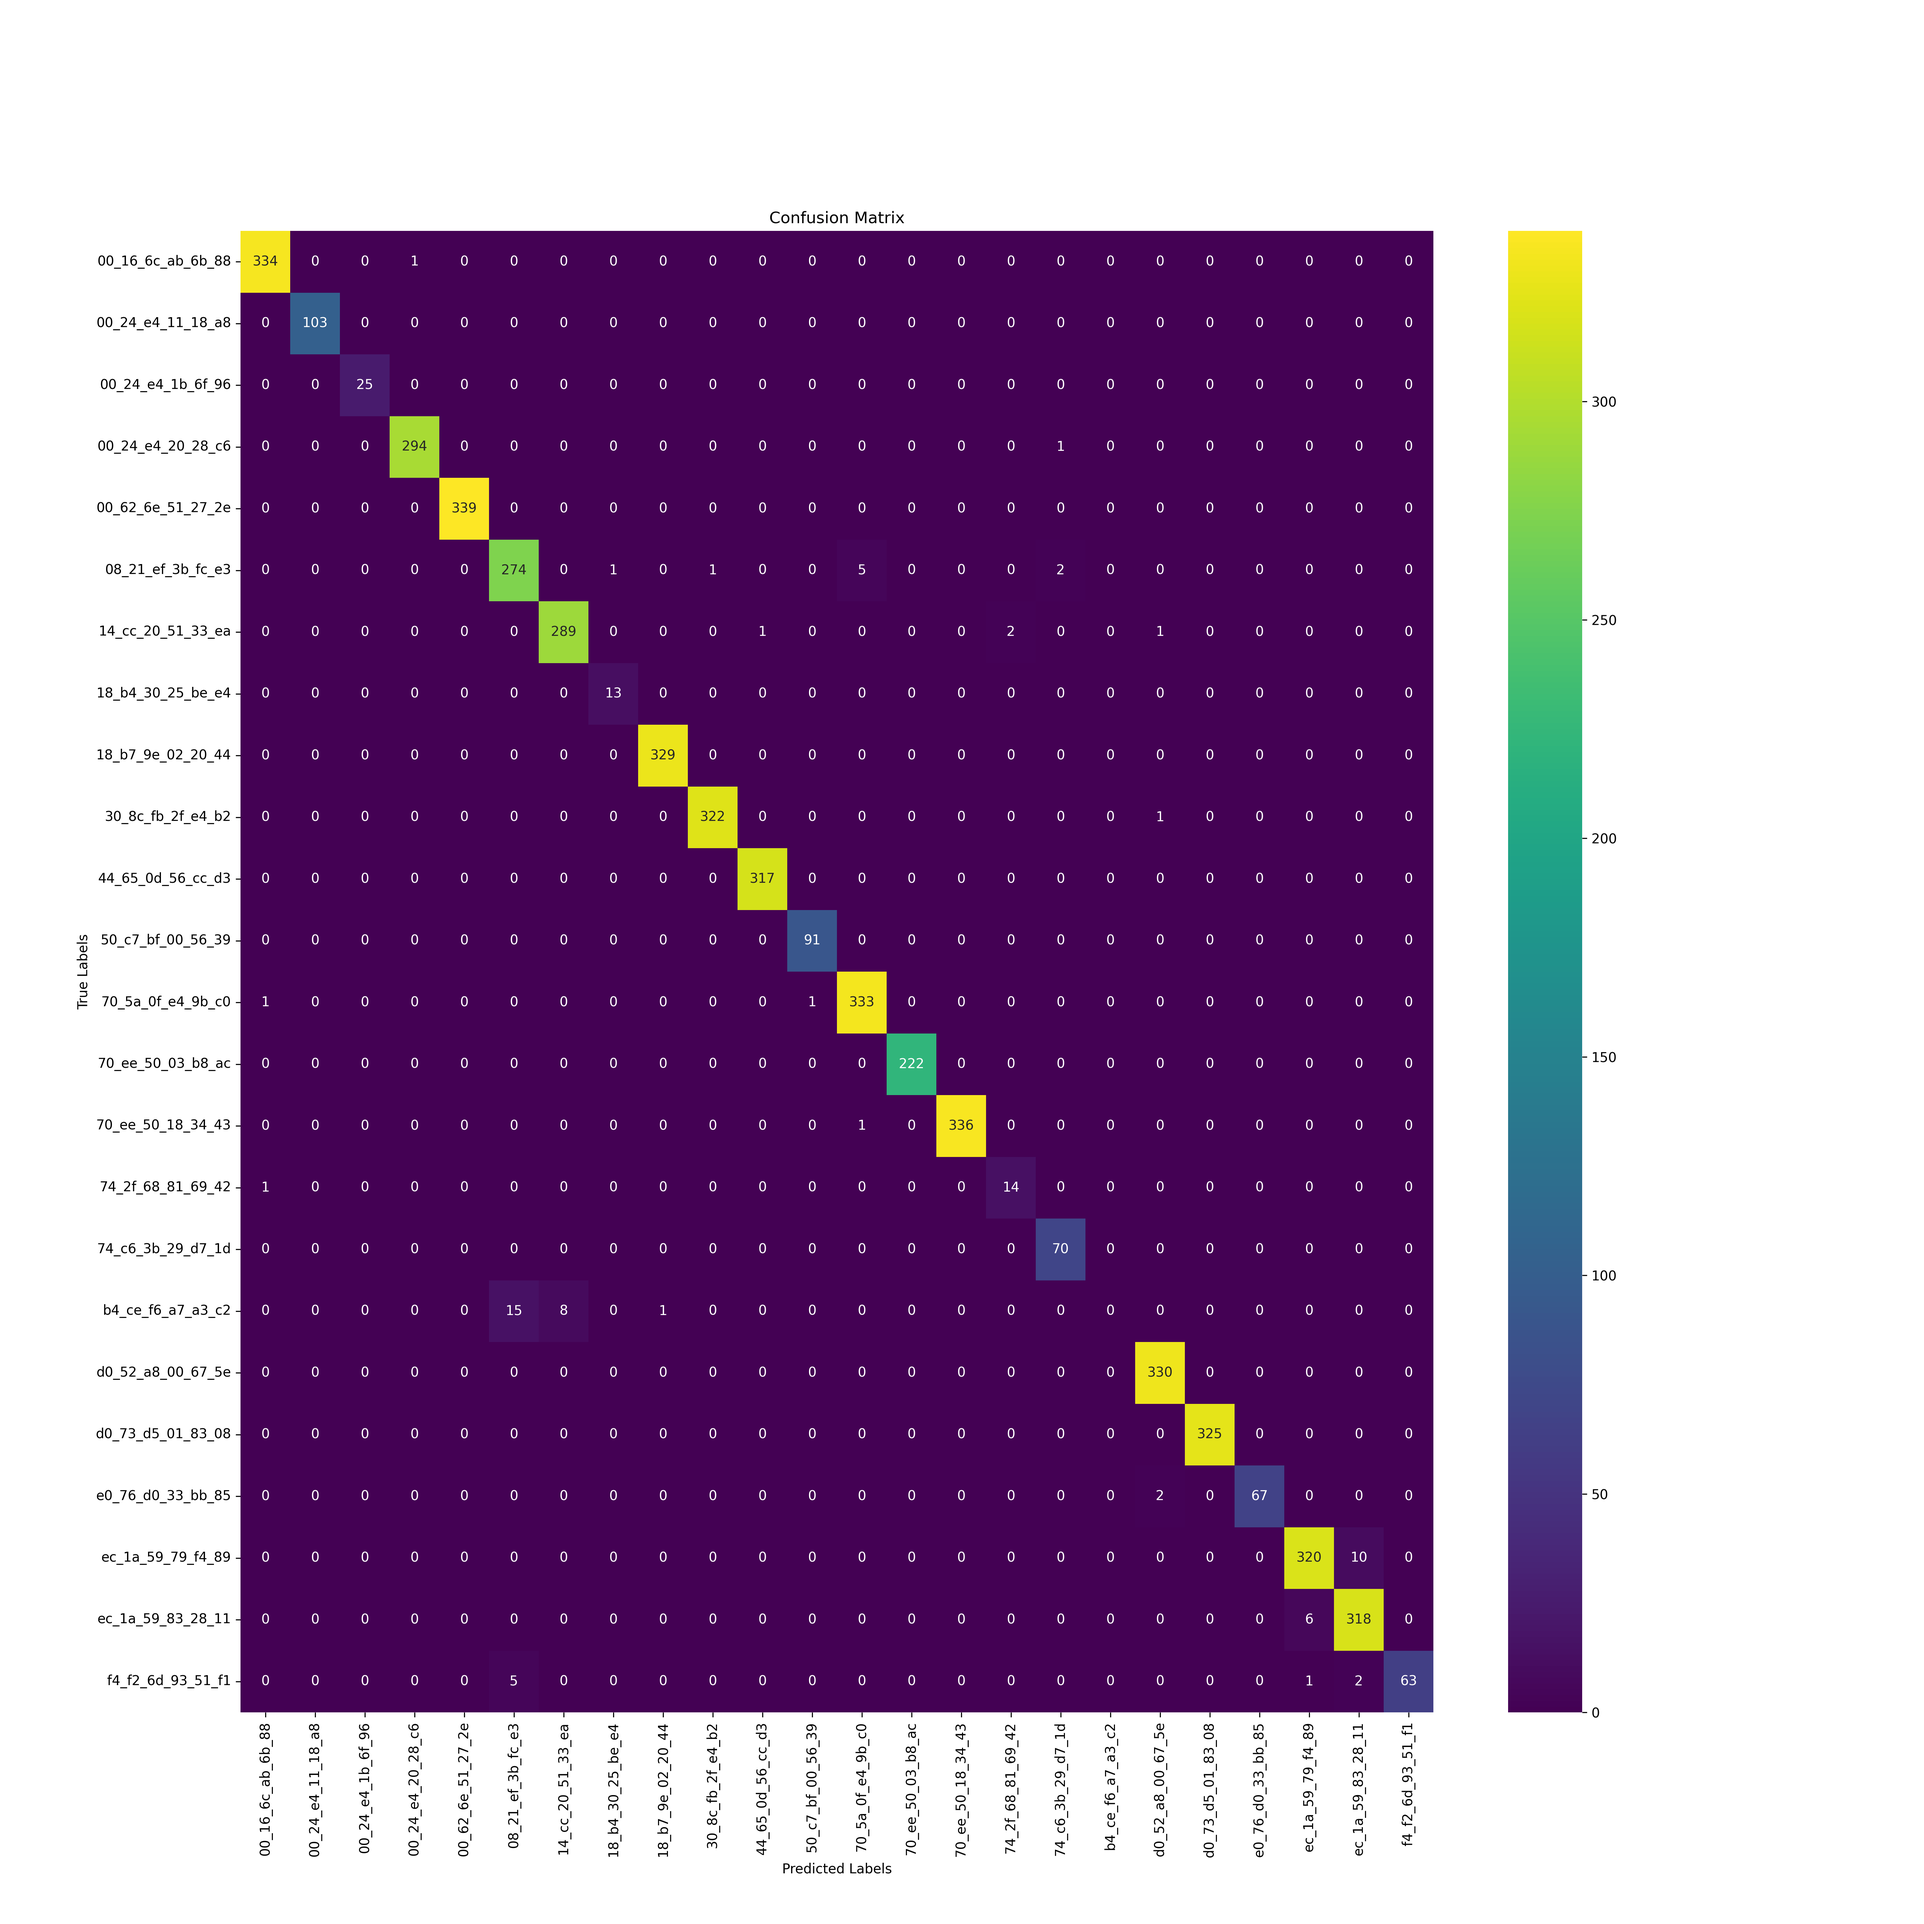
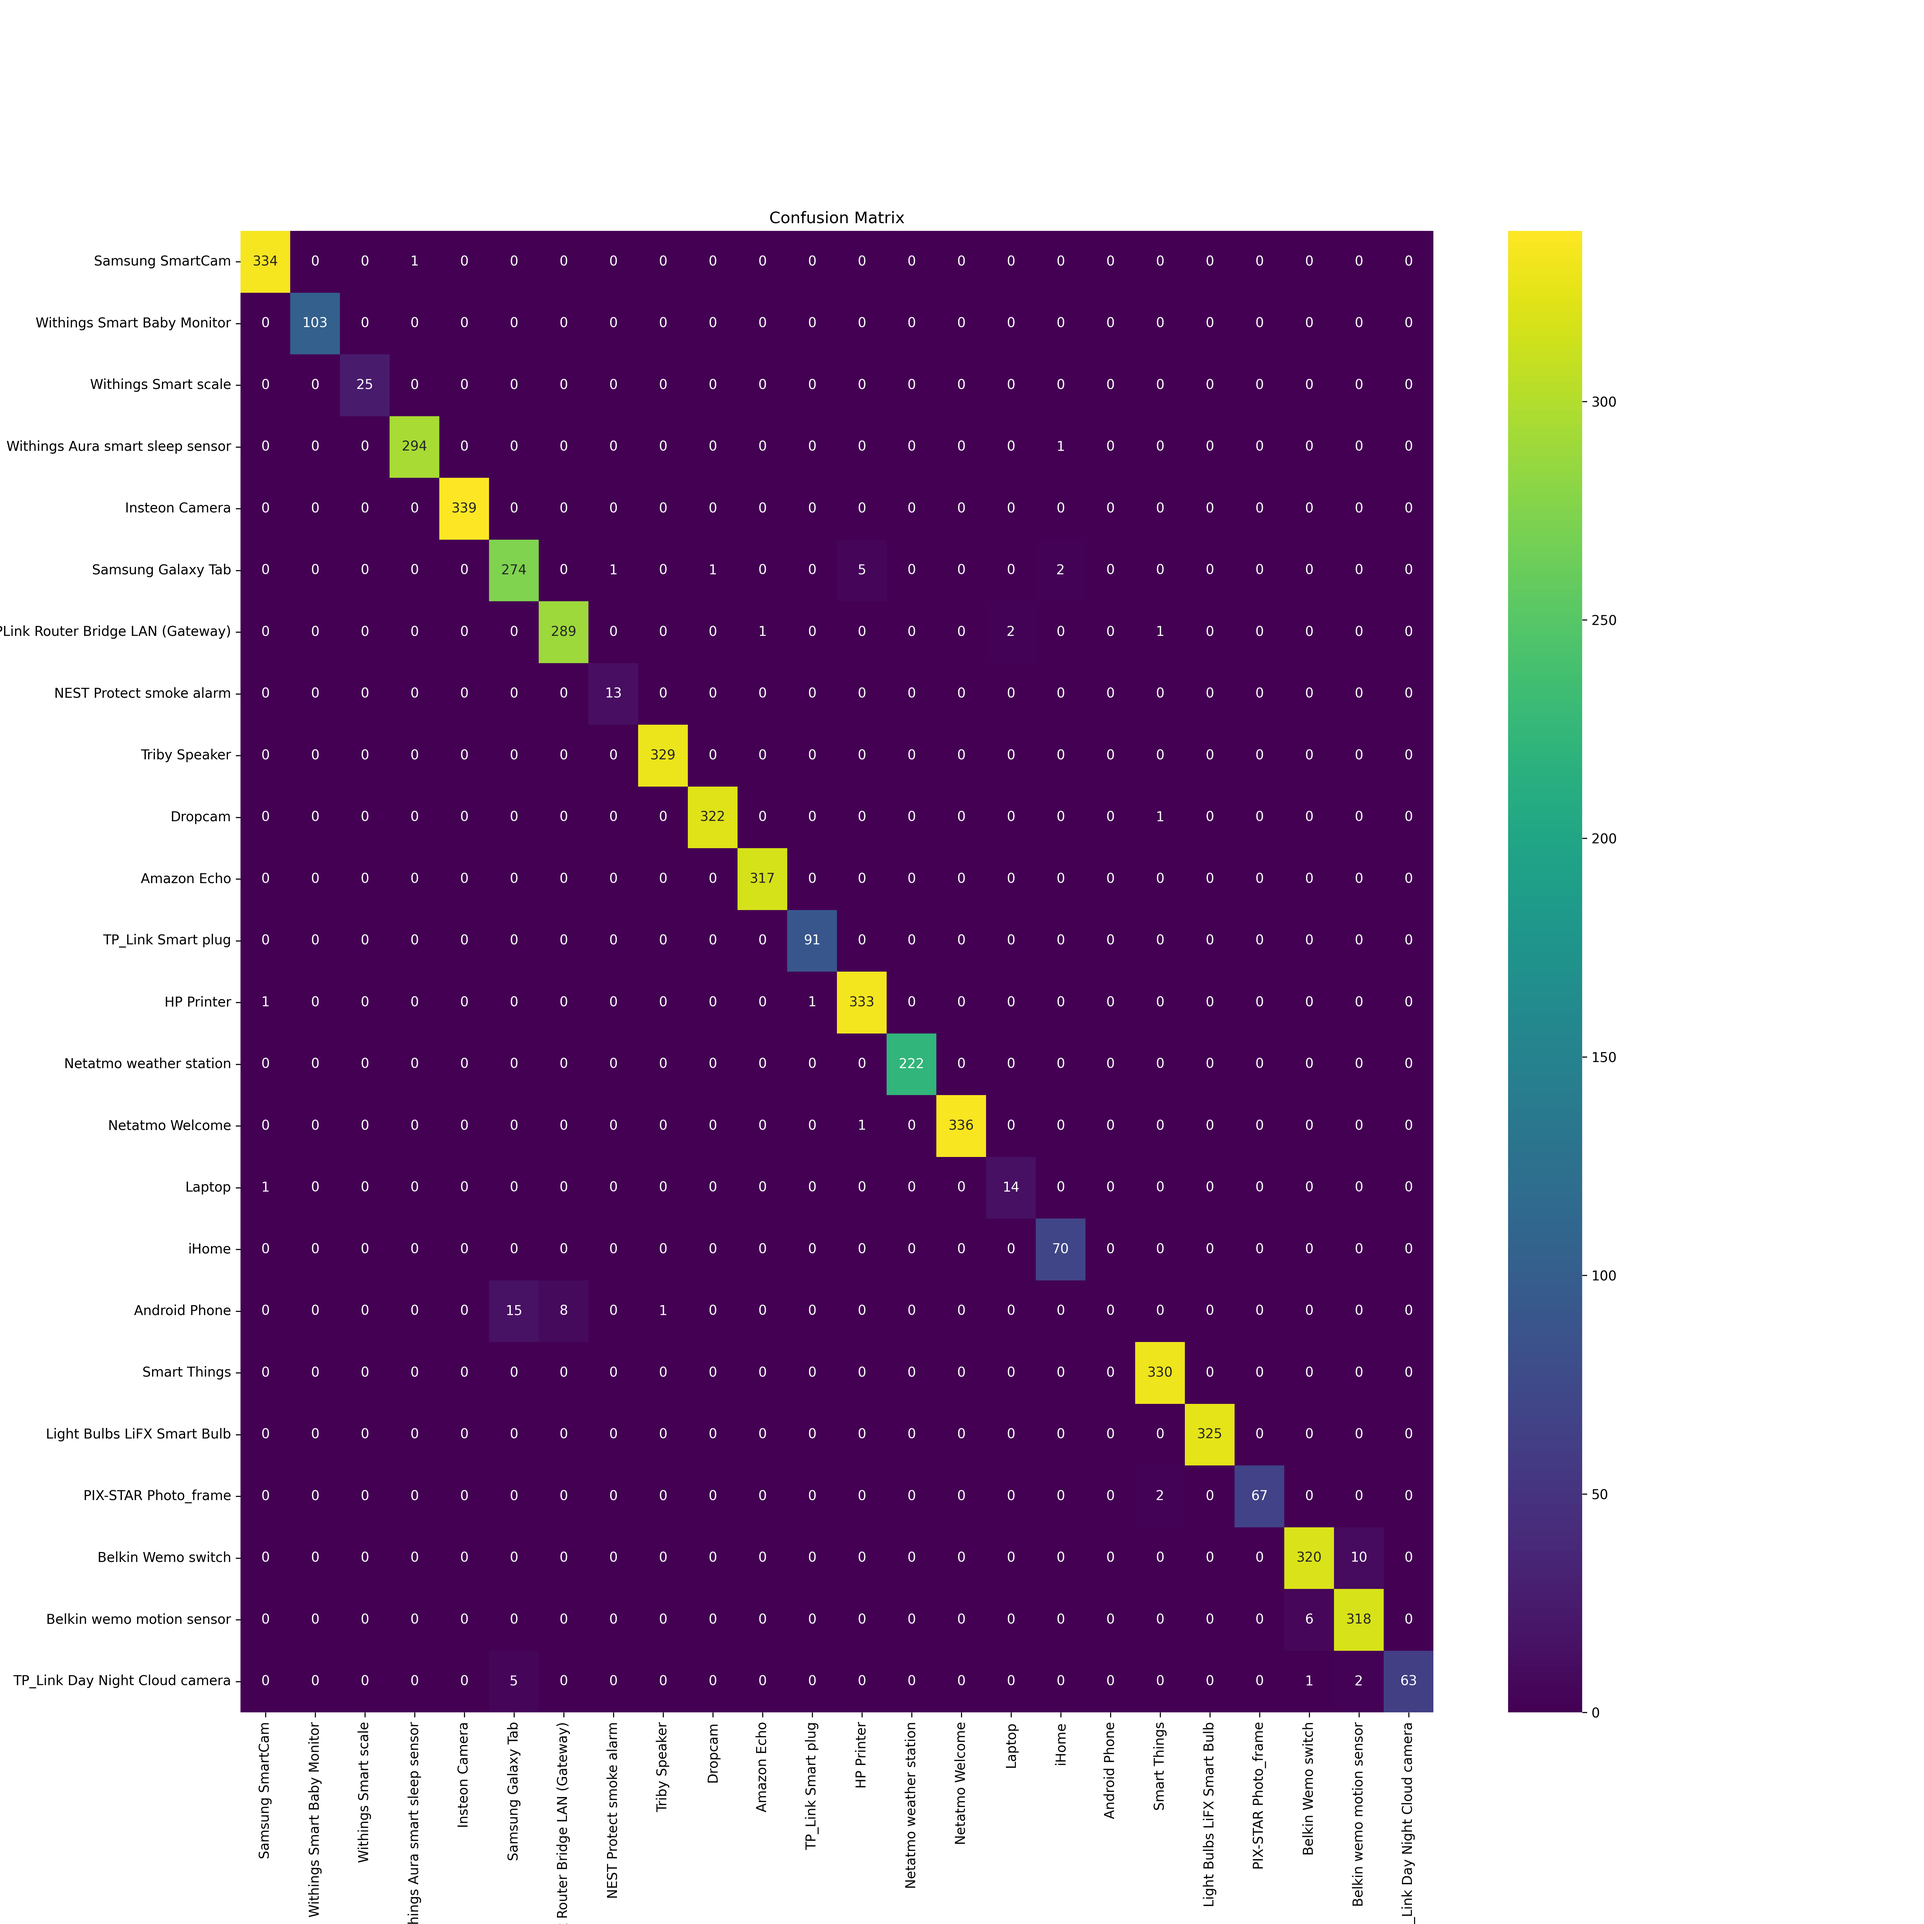
FINAL TOLL SHALL COME SOON DO NOT HIDE DO NOT RUN STAND

diff --git a/iot_classification/src/make_graph.py b/iot_classification/src/make_graph.py
@@ -3,6 +3,9 @@ AI Usage Statement
 Tools Used: Copilot (Claude 3.7 Sonnet)
 - Usage: Making the graphs from the save file I made. Graph types were selected by me.
 - Verification: The graphs look correct and match the data. The code was reviewed and rewritten to fit the needs.
+
+- Usage: Understanding what the heck sklearn 'le' is and mapping the labels to device names.
+- Verification: The comments for that section were written by me, explaining based on how I understood it reply to explain
 Prohibited Use Compliance: Confirmed
 '''
 
@@ -290,12 +293,17 @@ def confusion_matrix(le, matrix, true, predicted, output_dir='iot_classification
         None
     '''
     # get the names
-    device_mapping = pd.read_csv('iot_classification/corpus/list_of_devices.csv', header=None, names=['Device', 'Hash'])
-    device_mapping_dict = dict(zip(device_mapping['Hash'].str.strip(), device_mapping['Device'].str.strip()))
+    device_mapping = pd.read_csv('iot_classification/corpus/list_of_devices.csv', header=None, names=['device', 'hash'])
+    device_mapping_dict = dict(zip(device_mapping['hash'].str.strip(), device_mapping['device'].str.strip()))
 
     class_labels = le.classes_
 
     decoded_labels = [device_mapping_dict.get(label, label) for label in class_labels]
+
+    # 'le' is the label encoder, used to transform string labels to numbers
+    # inverse_transform is used to decode the numbers into strings
+    true_labels = [device_mapping_dict.get(label, label) for label in le.inverse_transform(true)]
+    predicted_labels = [device_mapping_dict.get(label, label) for label in le.inverse_transform(predicted)]
 
     # plot
     plt.figure(figsize=(20, 20))

diff --git a/iot_classification/src/classify.py b/iot_classification/src/classify.py
@@ -824,12 +824,12 @@ def main(args):
         print("\n===== Non-trivial Node Details =====")
         print(f"Selected node split on: Feature {non_leaf_node.feature} (Threshold: {non_leaf_node.threshold:.4f})")
         print(f"Parent node sample count: {non_leaf_node.n_samples}, Gini impurity: {non_leaf_node.gini:.4f}")
-        print(f"Class distribution at parent node: {non_leaf_node.class_counts}")
+        print(f"Class distribution at parent node: { {int(k): int(v) for k, v in non_leaf_node.class_counts.items()} }")
 
         left = non_leaf_node.left
         right = non_leaf_node.right
-        print(f"Left child sample count: {left.n_samples}, Gini impurity: {left.gini:.4f}, class distribution: {left.class_counts}")
-        print(f"Right child sample count: {right.n_samples}, Gini impurity: {right.gini:.4f}, class distribution: {right.class_counts}")
+        print(f"Left child sample count: {left.n_samples}, Gini impurity: {left.gini:.4f}, class distribution: { {int(k): int(v) for k, v in left.class_counts.items()} }")
+        print(f"Right child sample count: {right.n_samples}, Gini impurity: {right.gini:.4f}, class distribution: { {int(k): int(v) for k, v in right.class_counts.items()} }")
 
         weighted_impurity = (left.n_samples / non_leaf_node.n_samples) * left.gini + \
                             (right.n_samples / non_leaf_node.n_samples) * right.gini
